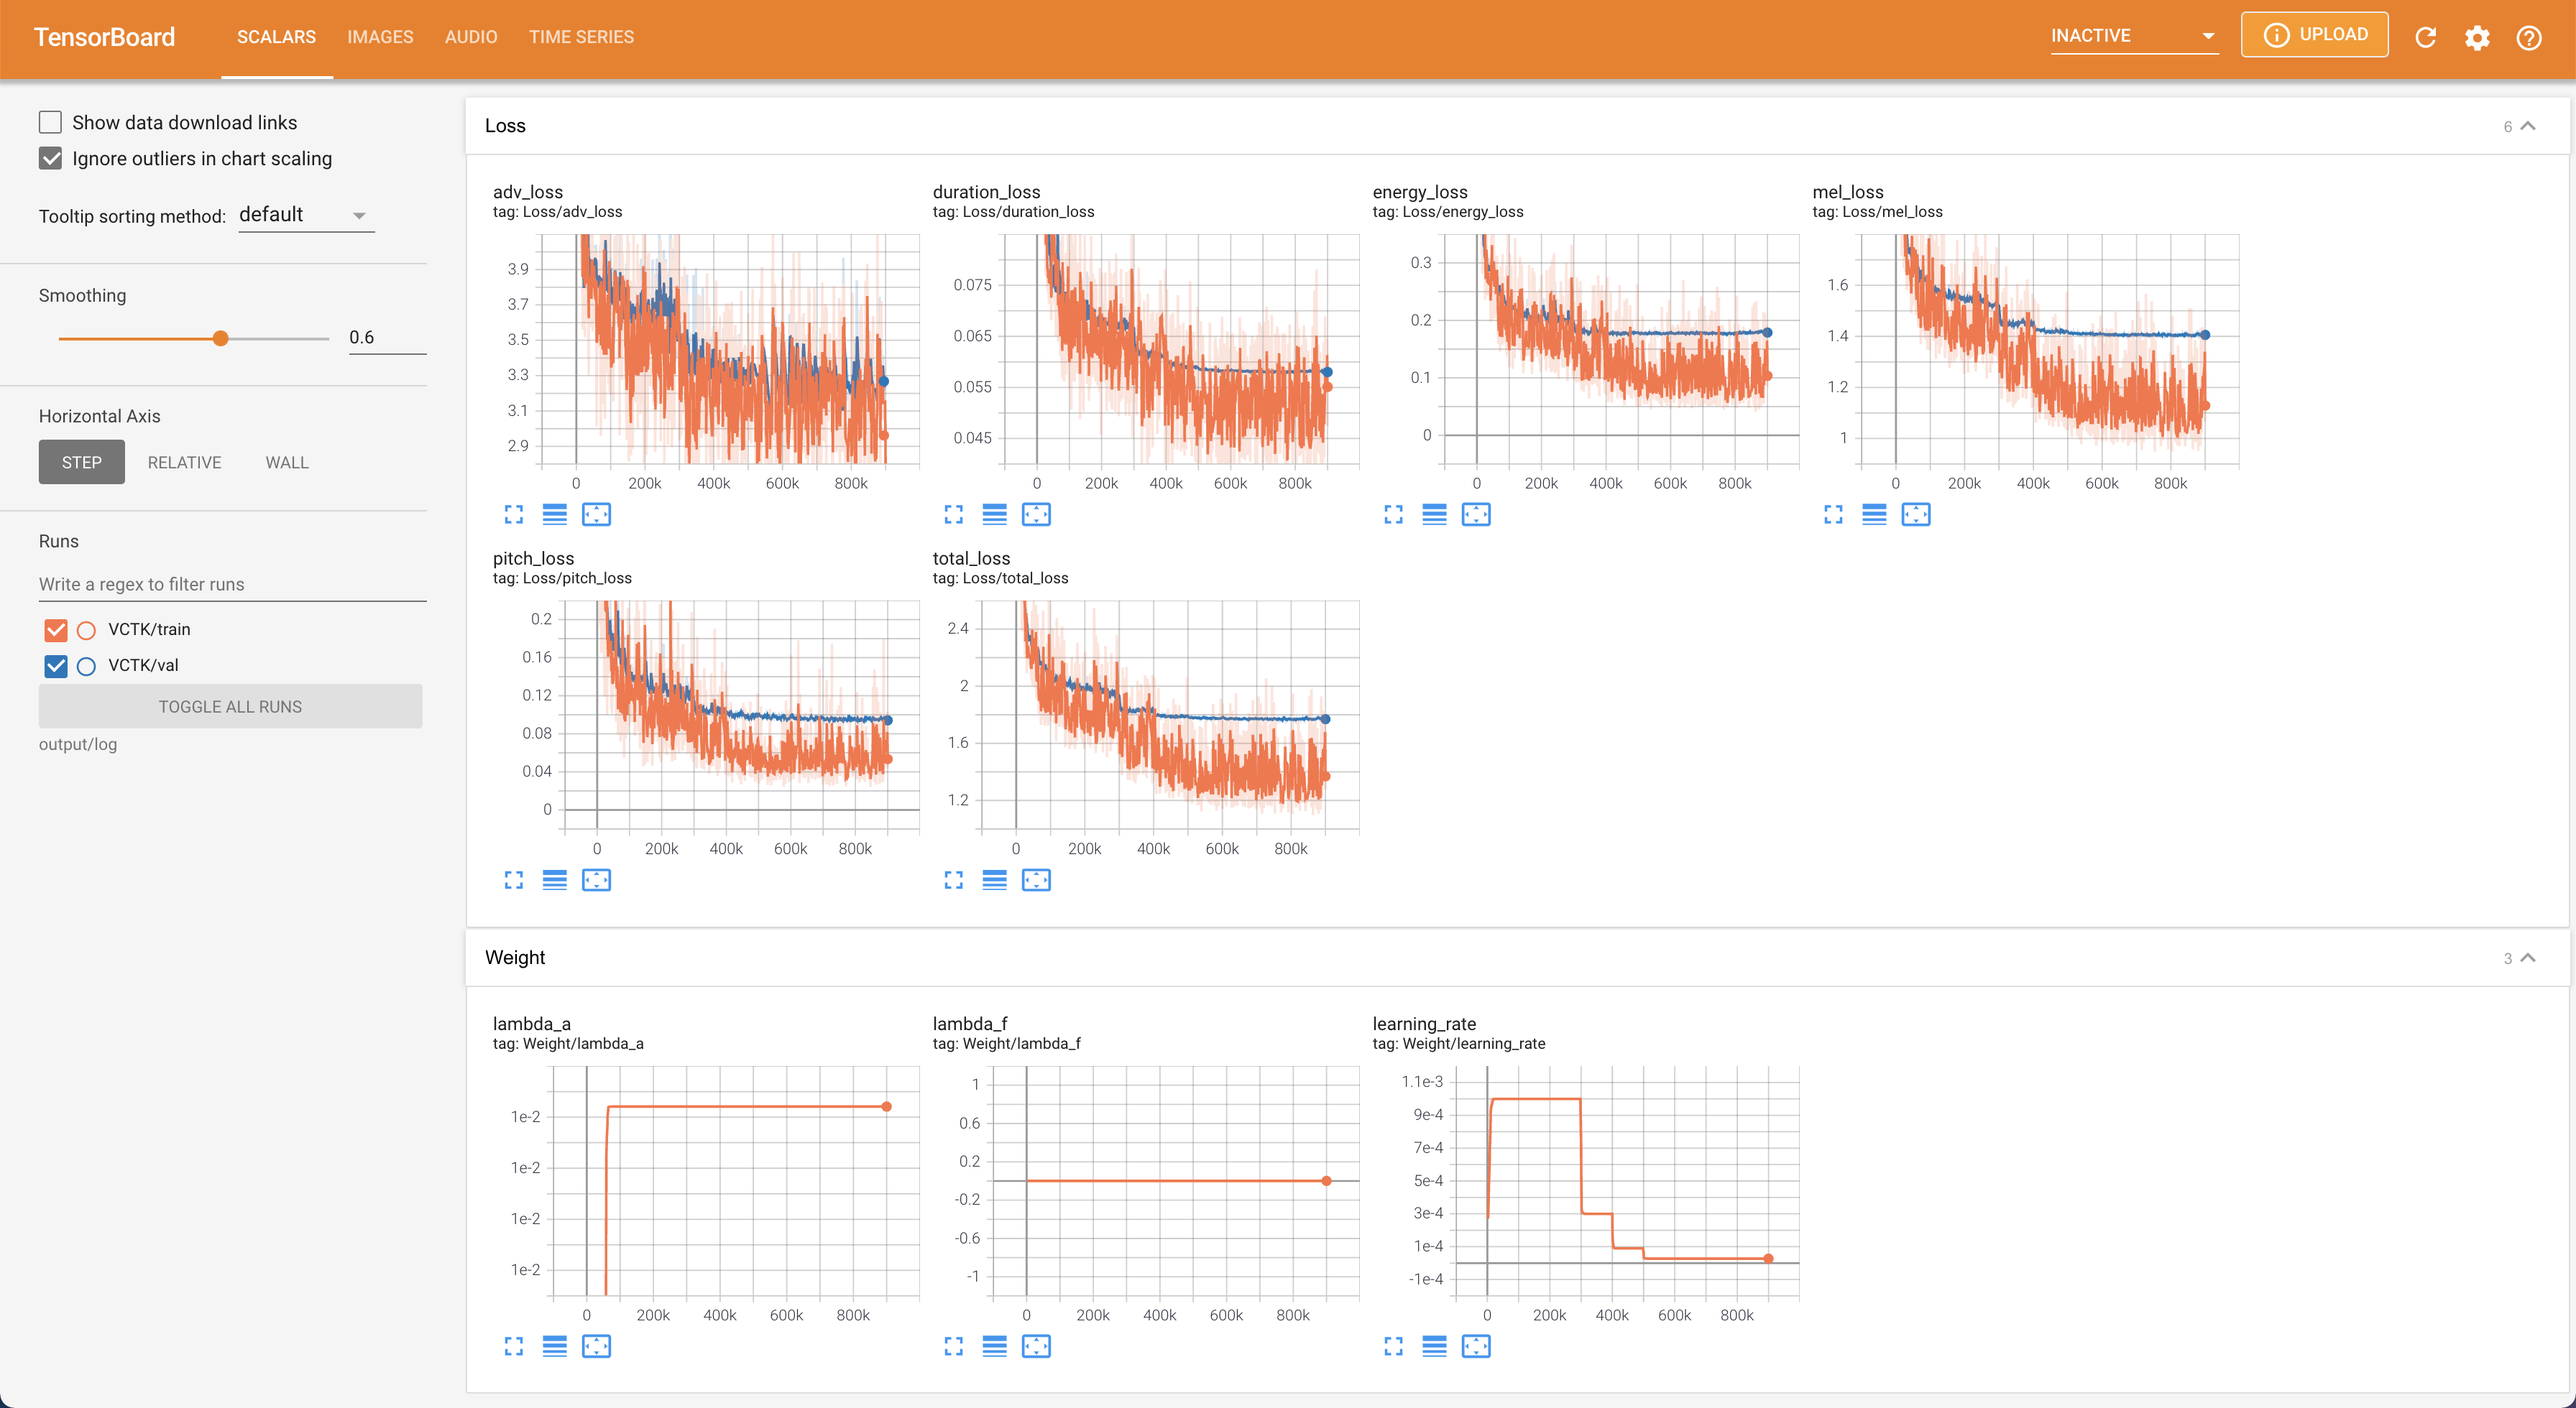
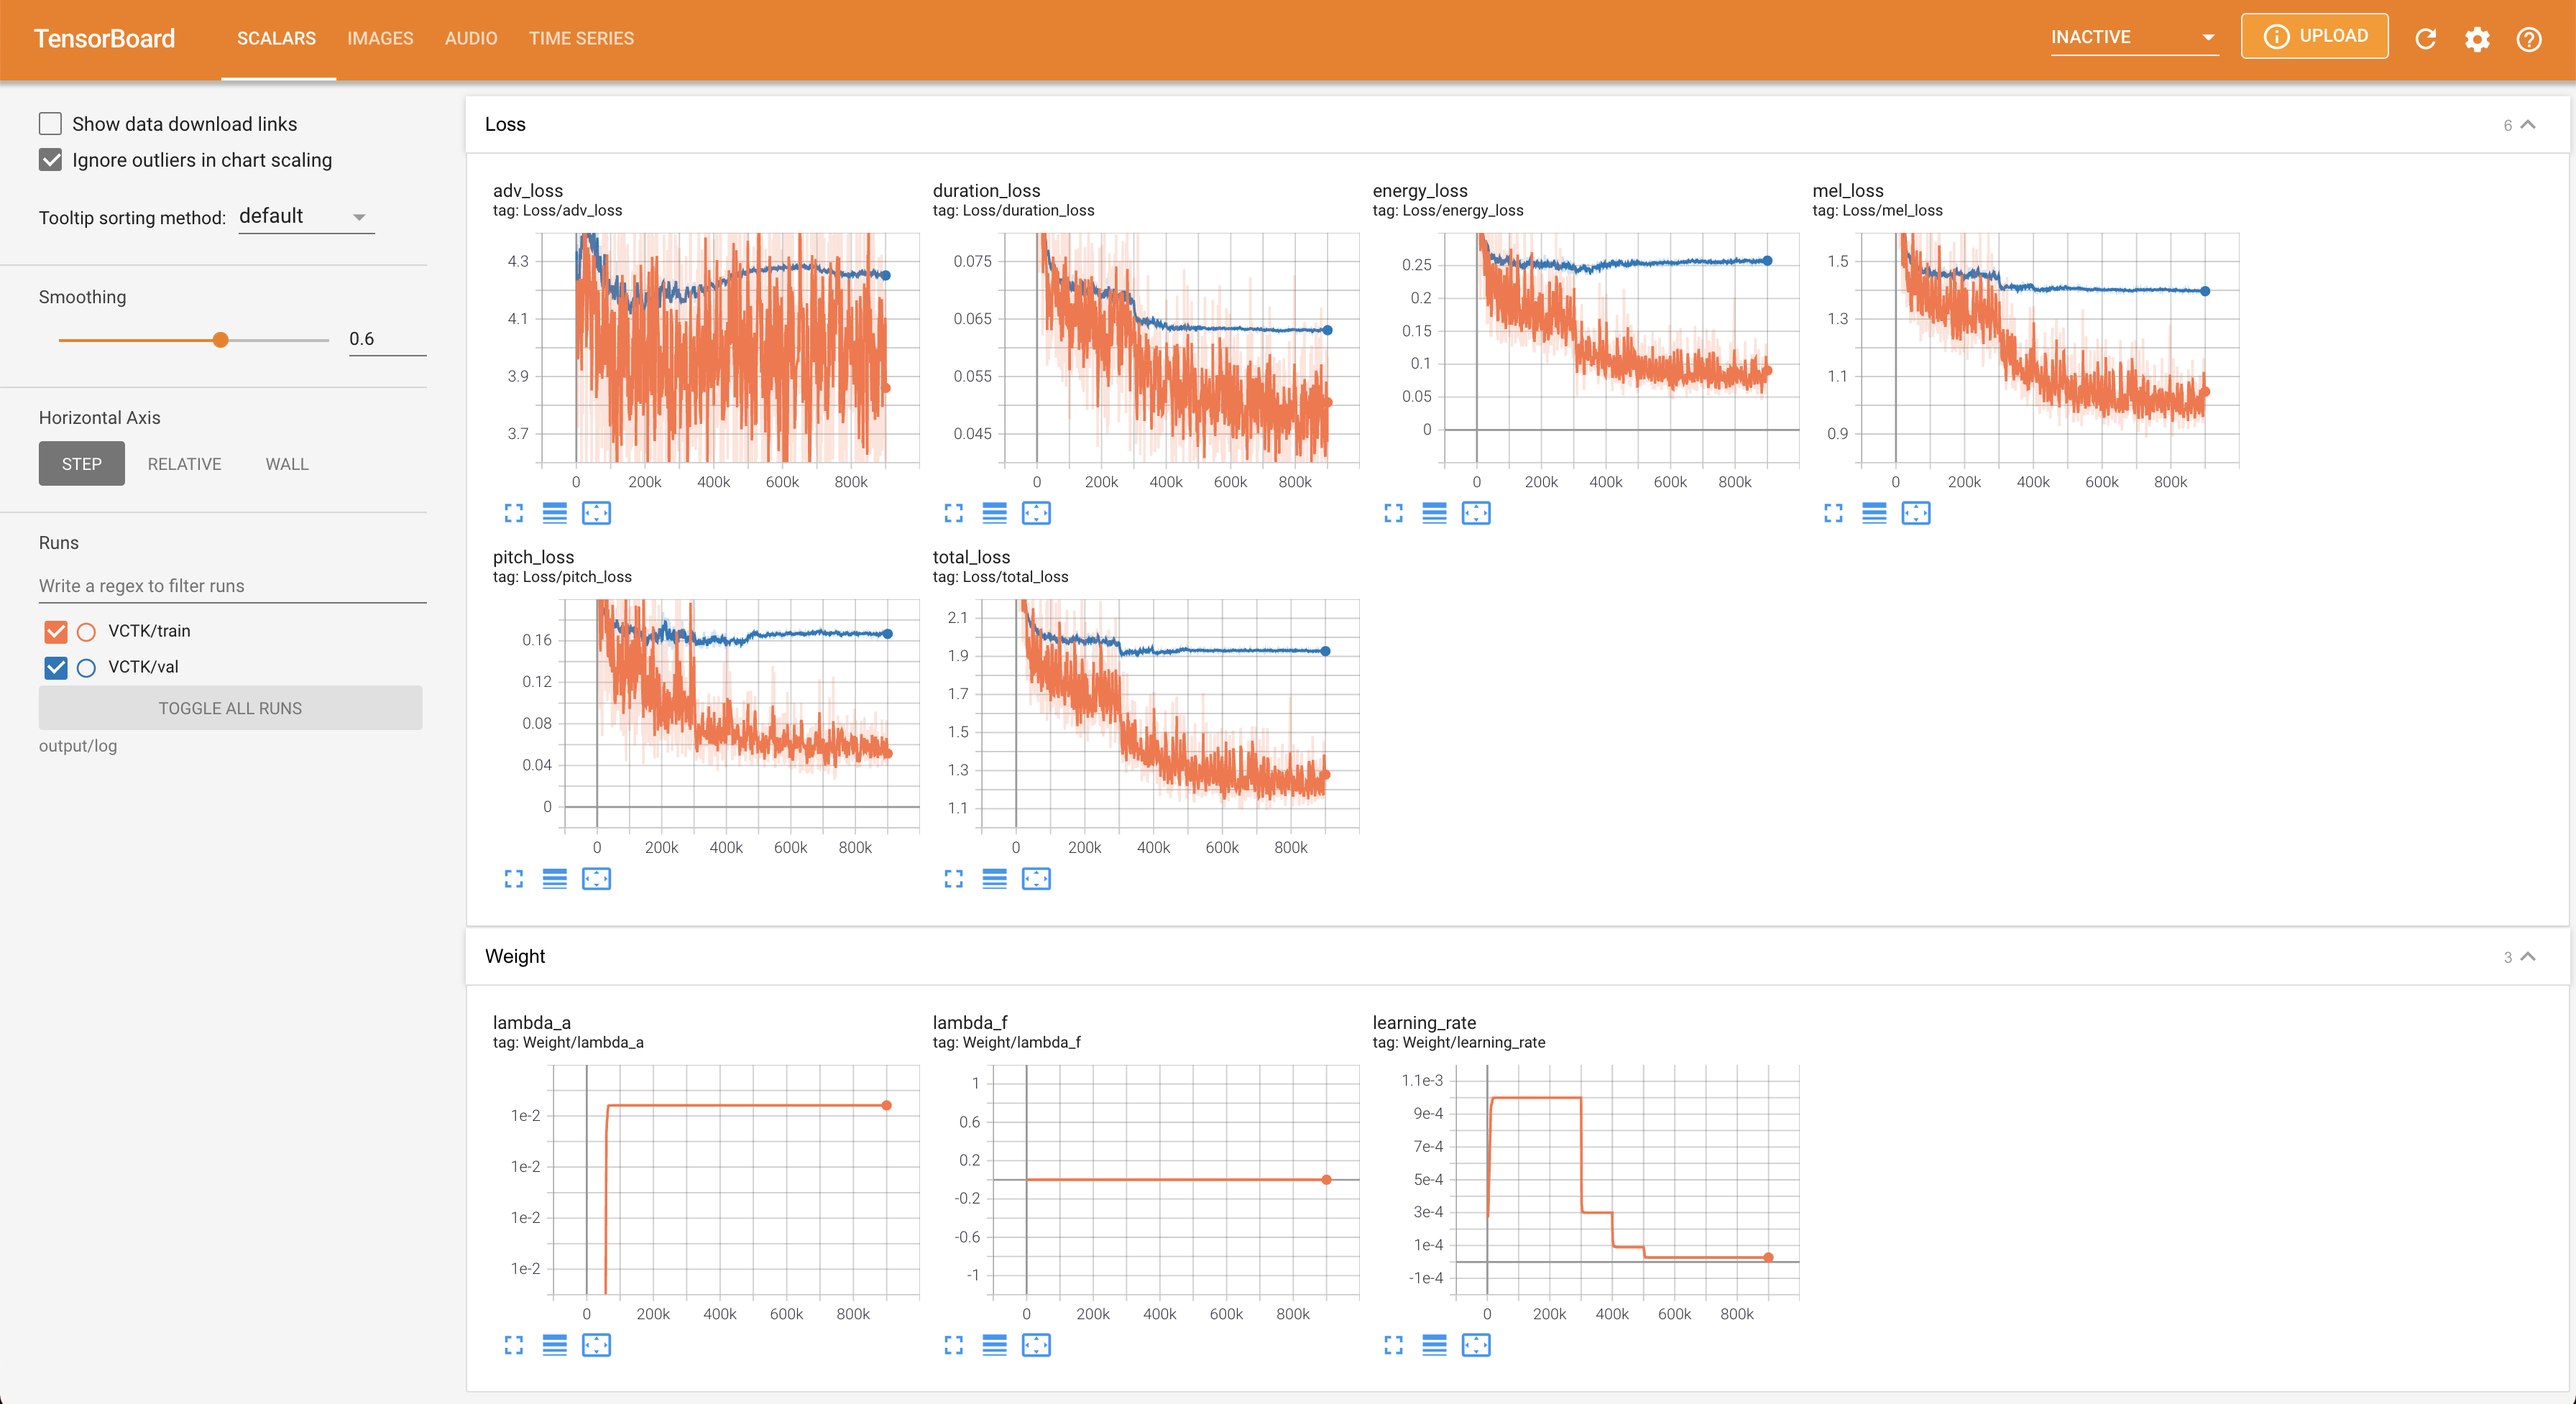
fix FiLM and Avg Pooling of ProsodyEncoder

diff --git a/model/modules.py b/model/modules.py
@@ -332,7 +332,7 @@ class ProsodyEncoder(nn.Module):
             )
 
         # -- Avg Pooling
-        prosody_vector = enc_seq.sum(dim=1, keepdim=True) # [B, 1, H]
+        prosody_vector = enc_seq.mean(dim=1, keepdim=True) # [B, 1, H]
 
         # -- Speaker Classifier
         speaker_posterior = self.speaker_classifier(prosody_vector.squeeze(1))

diff --git a/model/blocks.py b/model/blocks.py
@@ -59,7 +59,7 @@ class FiLM(nn.Module):
         """
         gammas = self.s_gamma * gammas.expand_as(x)
         betas = self.s_beta * betas.expand_as(x)
-        return (gammas + 1.0 * x) + betas
+        return (gammas + 1.0) * x + betas
 
 
 class LinearNorm(nn.Module):

diff --git a/README.md b/README.md
@@ -103,7 +103,7 @@ The loss curves, synthesized mel-spectrograms, and audios are shown.
 # Implementation Issues
 
 - **RangeParameterPredictor** is built with BiLSTM rather than a single linear layer with softplus() activation (it is however implemented and named as 'range_param_predictor_paper' in **GaussianUpsampling**).
-- Use `32` batch size instead of `48` due to memory issues.
+- Use `16` batch size instead of `48` due to memory issues.
 - Use log duration instead of normal duration.
 - Follow **FastSpeech2** for the preprocess of pitch and energy.
 - Two options for embedding for the **multi-speaker TTS** setting: training speaker embedder from scratch or using a pre-trained [philipperemy's DeepSpeaker](https://github.com/philipperemy/deep-speaker) model (as [STYLER](https://github.com/keonlee9420/STYLER) did). You can toggle it by setting the config (between `'none'` and `'DeepSpeaker'`).
